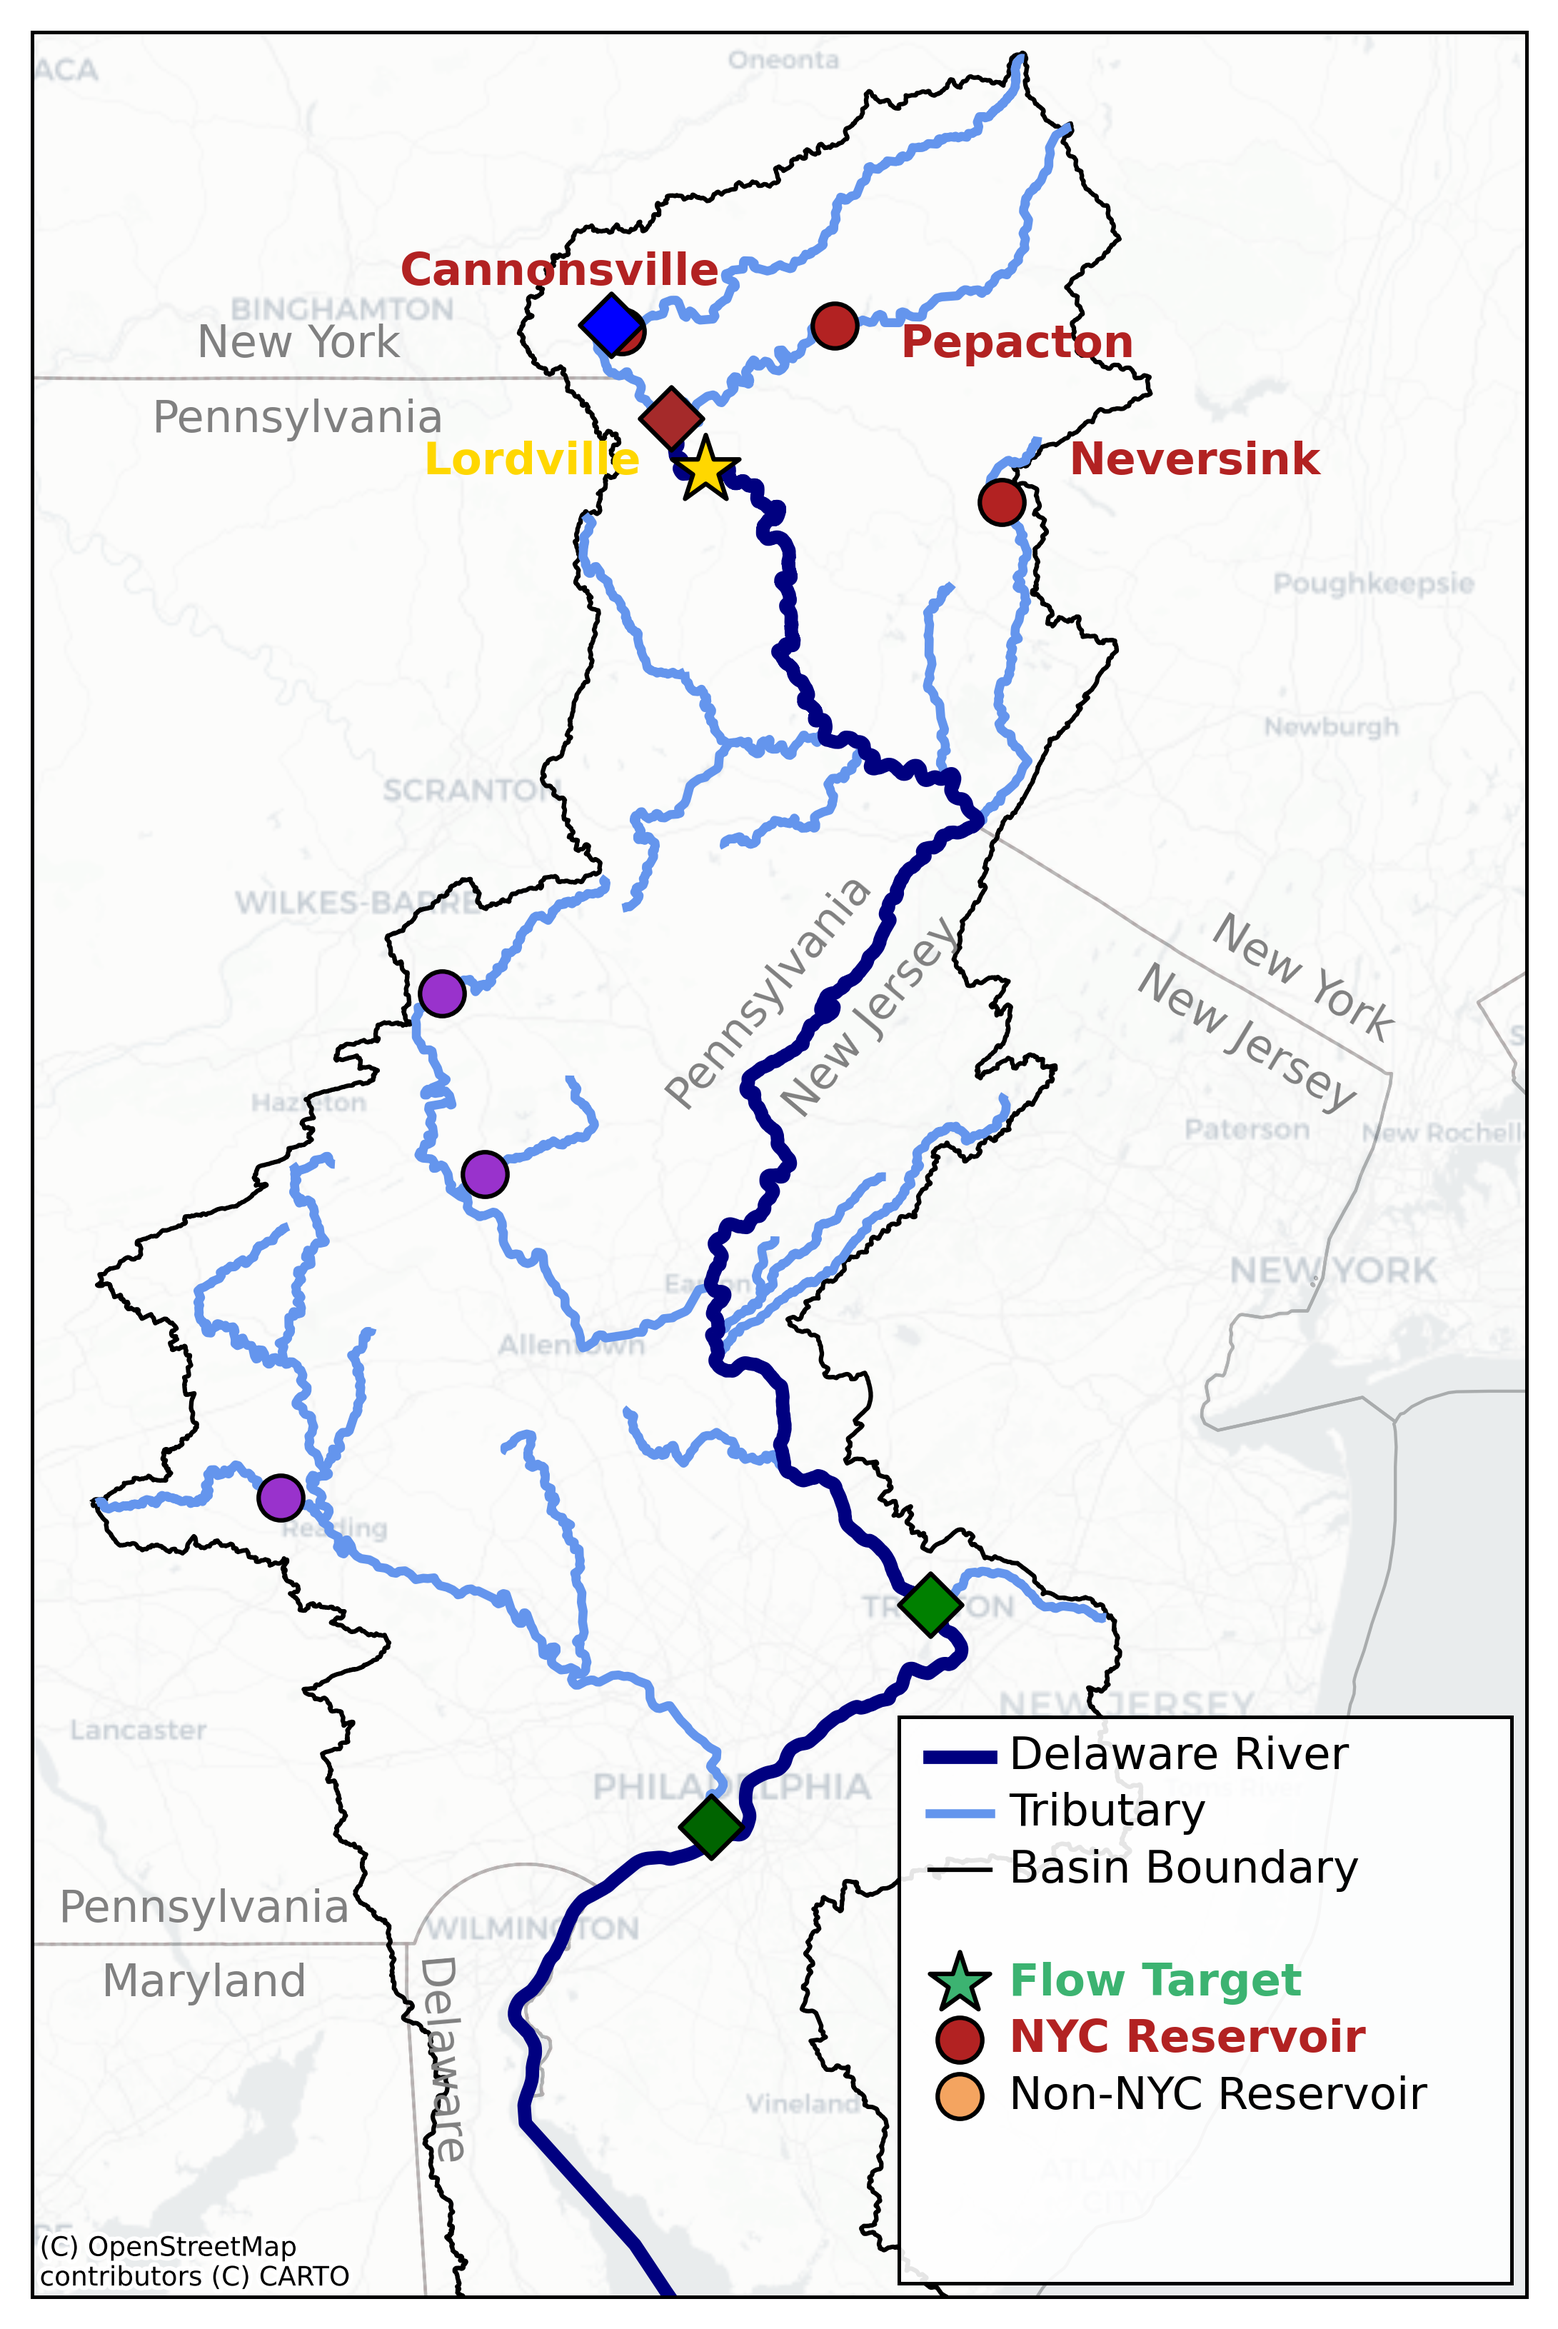
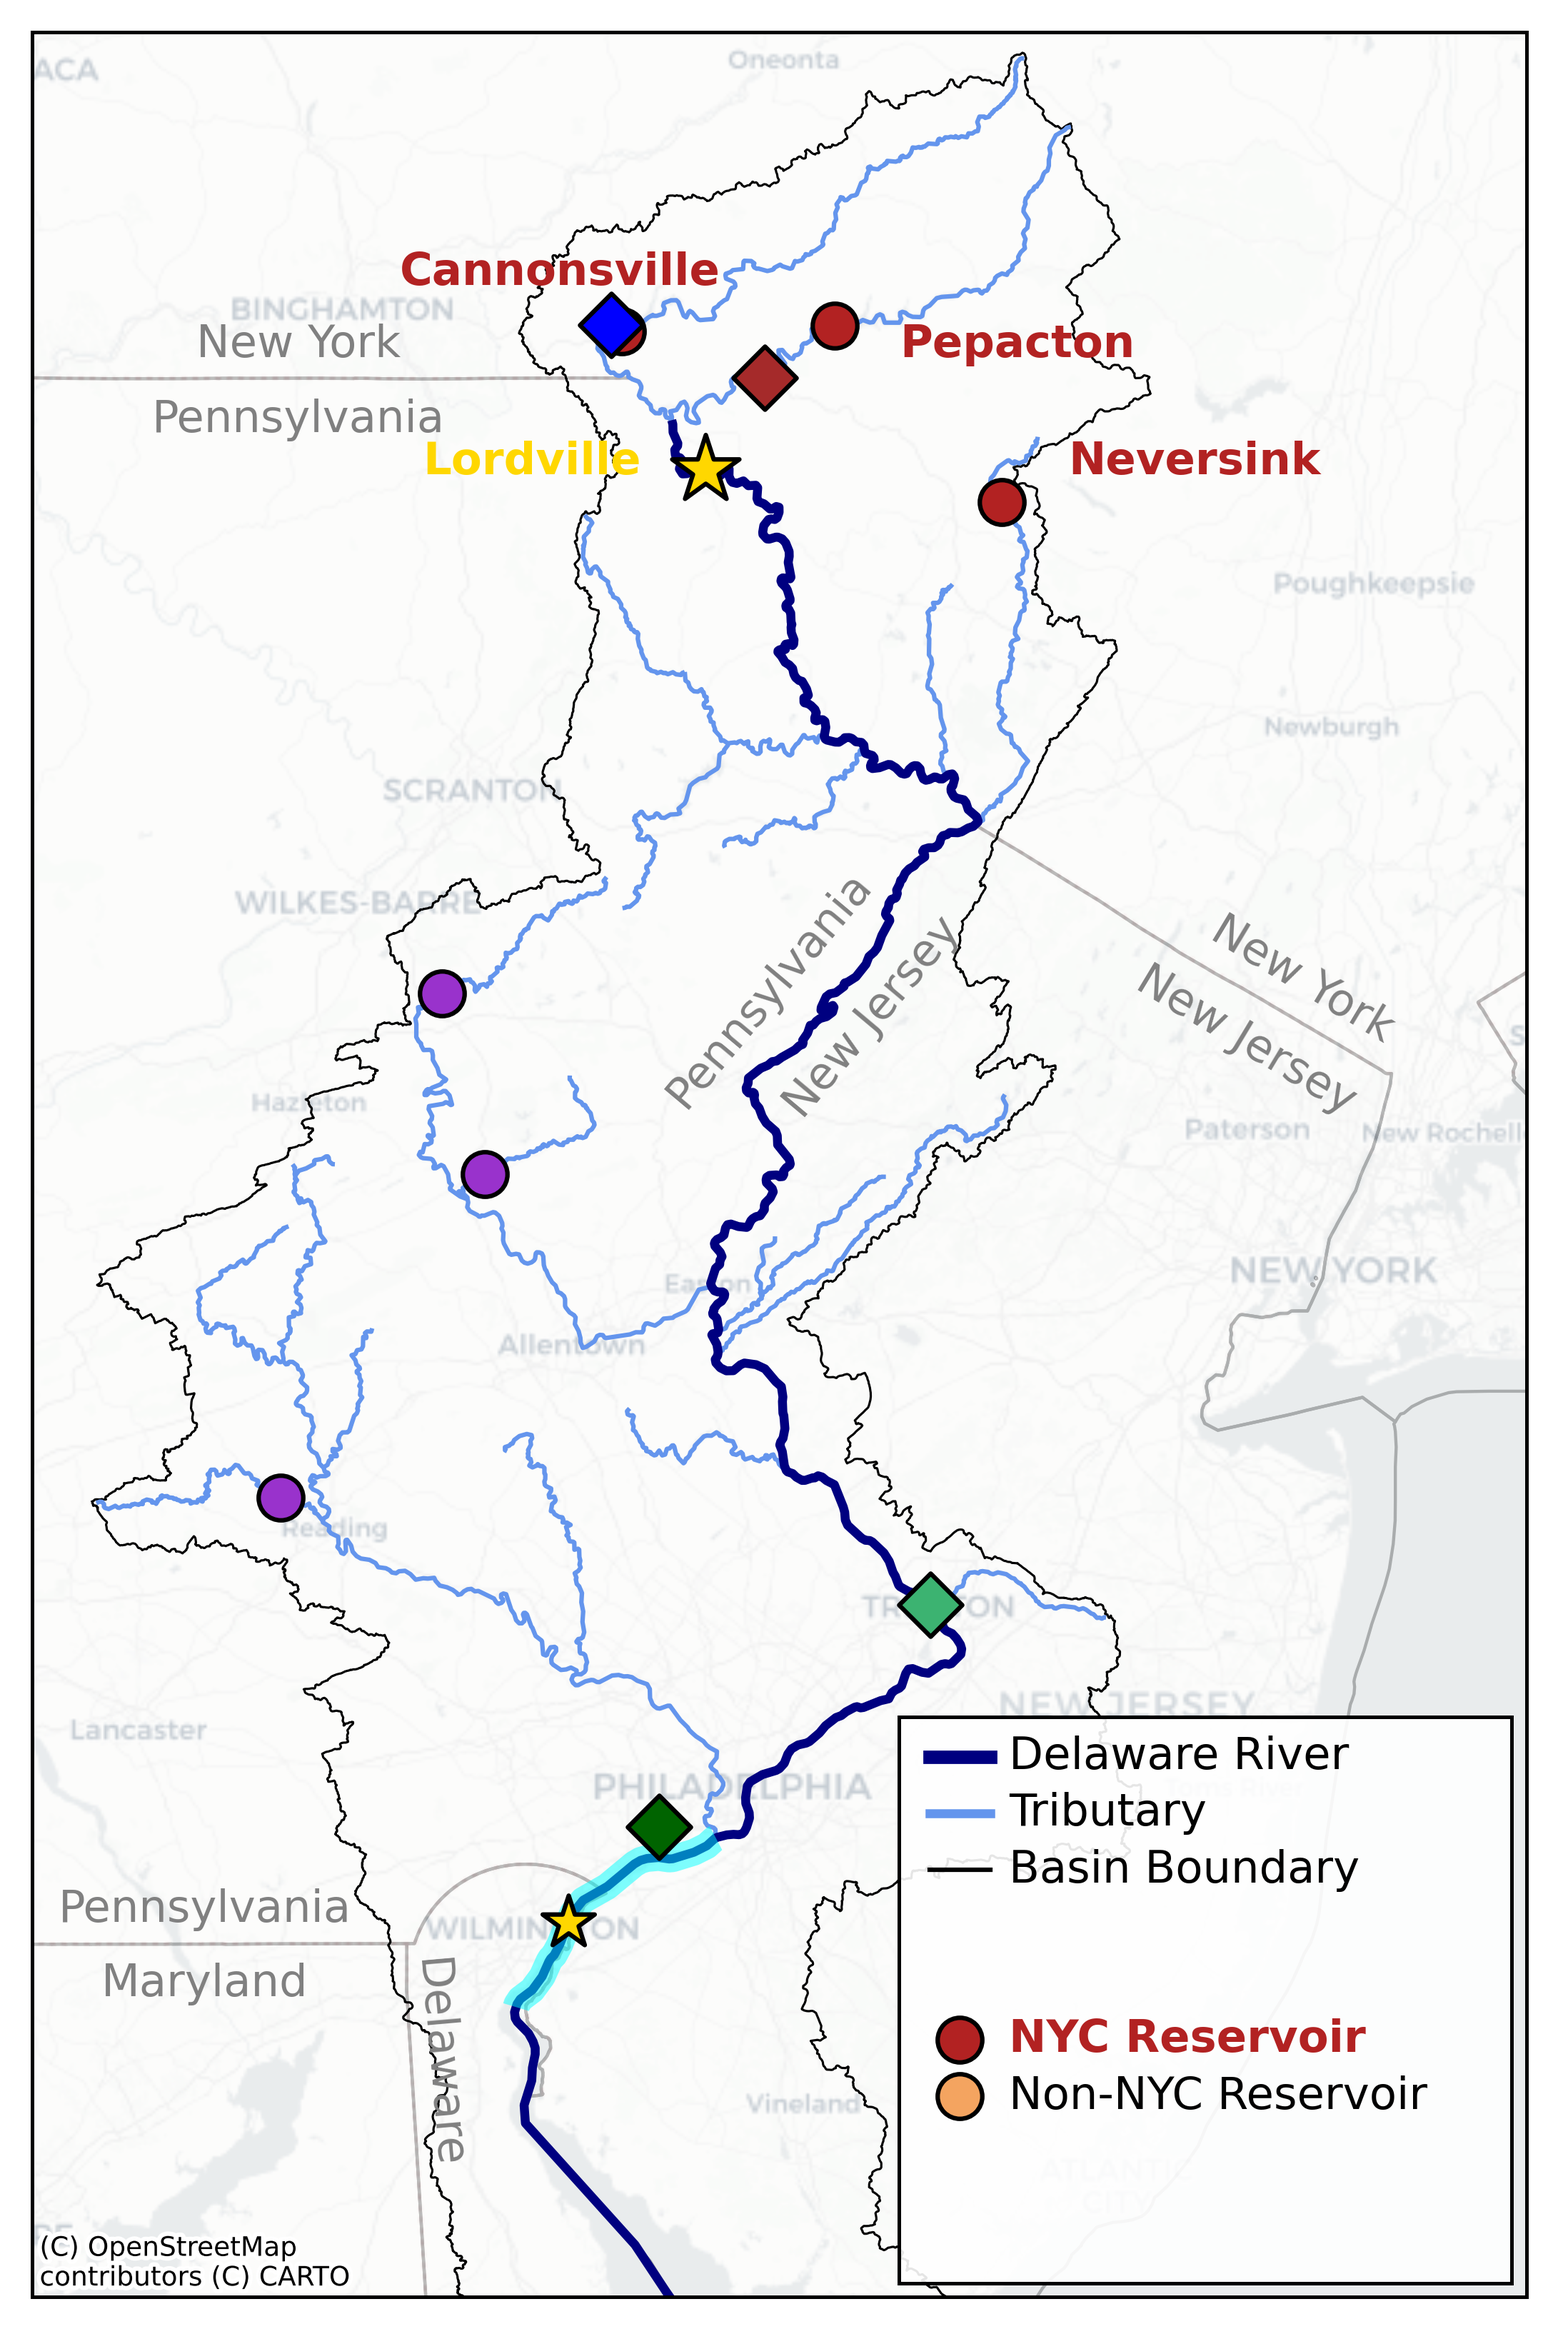
update

diff --git a/make_Lin_etal_preprint.py b/make_Lin_etal_preprint.py
@@ -6,6 +6,8 @@ Contains all plotting functions used for Pywr-DRB model assessments, including:
 import geopandas as gpd
 from shapely import ops
 from shapely.geometry import Point, LineString, MultiLineString
+from shapely.geometry import box
+
 import numpy as np
 import pandas as pd
 import matplotlib.pyplot as plt
@@ -31,6 +33,8 @@ def make_DRB_map(fig_dir=fig_dir,
                  use_basemap = True,
                  plot_temp_lstm_inputs=True,
                  plot_salinity_lstm_inputs=True,
+                 plot_salinity_normal_range=True,
+                 plot_salinity_target=True,
                  plot_tributaries = True,
                  plot_flow_requirements = True,
                  plot_lordville = True,
@@ -42,6 +46,7 @@ def make_DRB_map(fig_dir=fig_dir,
     ### set crs consistent with contextily basemap
     crs = 'EPSG:3857'
     crs_nodedata = 4386
+    crs_longlat = 'EPSG:4326'
 
 
     # # Reservoir data
@@ -76,7 +81,7 @@ def make_DRB_map(fig_dir=fig_dir,
     
 
     ### plot drb boundary
-    drb_boundary.plot(ax=ax, color='none', edgecolor='k', lw=1, zorder=0.9)
+    drb_boundary.plot(ax=ax, color='none', edgecolor='k', lw=0.5, zorder=0.9)
 
     ### plot river network
     mainstem.plot(ax=ax, color='navy', lw=2, zorder=1.1)
@@ -107,7 +112,7 @@ def make_DRB_map(fig_dir=fig_dir,
             tribs.append(trib)
 
         for trib in tribs:
-            trib.plot(ax=ax, color='cornflowerblue', lw=2, zorder=1)
+            trib.plot(ax=ax, color='cornflowerblue', lw=1, zorder=1)
 
     # reservoirs
     list_nyc_reservoirs = ('reservoir_cannonsville', 'reservoir_pepacton', 'reservoir_neversink')
@@ -180,7 +185,8 @@ def make_DRB_map(fig_dir=fig_dir,
                                                             crs=crs_nodedata)).to_crs(crs)
 
         # second point has coordinates:
-        coords = (-75.280370, 41.941378)
+        coords = (-75.10, 42.0)
+        
         Qin_b = gpd.GeoDataFrame({'name': ['Qin_b'], 'long': [coords[0]], 'lat': [coords[1]]},
                                   geometry=gpd.points_from_xy([coords[0]], [coords[1]],
                                                               crs=crs_nodedata)).to_crs(crs)
@@ -193,18 +199,55 @@ def make_DRB_map(fig_dir=fig_dir,
         # 1. trenton gage
         # 2. schuylkill outlet
         Qin_c = major_nodes.loc[major_nodes['name'] == 'link_delTrenton']
+        
         Qin_c = gpd.GeoDataFrame(Qin_c,
                                 geometry=gpd.points_from_xy(Qin_c.long, Qin_c.lat,
                                                             crs=crs_nodedata)).to_crs(crs)
 
         Qin_d = major_nodes.loc[major_nodes['name'] == 'link_outletSchuylkill']
+        
+        # for the schuylkill outlet, move the coordinate to the west for better visibility
+        Qin_d['lat'] = float(Qin_d['lat'])
+        Qin_d['long'] = float(Qin_d['long']) - 0.1
+        
         Qin_d = gpd.GeoDataFrame(Qin_d,
                                 geometry=gpd.points_from_xy(Qin_d.long, Qin_d.lat,
                                                             crs=crs_nodedata)).to_crs(crs)
-        Qin_c.plot(ax=ax, color='green', edgecolor='k', markersize=100, zorder=2.1, marker='D')
+        Qin_c.plot(ax=ax, color='mediumseagreen', edgecolor='k', markersize=100, zorder=2.1, marker='D')
         Qin_d.plot(ax=ax, color='darkgreen', edgecolor='k', markersize=100, zorder=2.1, marker='D')
 
-
+    if plot_salinity_normal_range:
+        # northern and southern bounds of normal salinity range
+        range_lat_bounds = [39.628079, 39.878107]
+        
+        # convert these latitudes to the map crs
+        point1 = gpd.GeoDataFrame({'name': ['point1'], 'long': [-75.477484], 'lat': [range_lat_bounds[0]]},
+                                  geometry=gpd.points_from_xy([-75.477484], [range_lat_bounds[0]],
+                                                              crs=crs_nodedata)).to_crs(crs)
+        point2 = gpd.GeoDataFrame({'name': ['point2'], 'long': [-75.477484], 'lat': [range_lat_bounds[1]]},
+                                  geometry=gpd.points_from_xy([-75.477484], [range_lat_bounds[1]],
+                                                              crs=crs_nodedata)).to_crs(crs)
+        
+        
+        # get the drb mainstem line geometry which is within these lat bounds
+        # must trim the line to be within the lat bounds
+        bounds = mainstem.total_bounds  # [minx, miny, maxx, maxy]
+        clip_box = box(bounds[0], point1.geometry.y.iloc[0], bounds[2], point2.geometry.y.iloc[0])
+        
+        # Clip the geometry to the latitude range
+        mainstem_range_segment = gpd.clip(mainstem, clip_box)
+    
+        mainstem_range_segment.plot(ax=ax, color='cyan', lw=6, alpha=0.5, zorder=1.2) 
+        
+    if plot_salinity_target:
+        # make a single point for the target location 
+        coords = (-75.477484, 39.752665)
+        target_point = gpd.GeoDataFrame({'name': ['target'], 'long': [coords[0]], 'lat': [coords[1]]},
+                                  geometry=gpd.points_from_xy([coords[0]], [coords[1]],
+                                                              crs=crs_nodedata)).to_crs(crs)
+        target_point.plot(ax=ax, color='gold', edgecolor='k', 
+                          markersize=150, zorder=2.3, marker='*')
+        
     ### add state boundaries
     if use_basemap:
         states.plot(ax=ax, color='none', edgecolor='0.5', lw=0.7, zorder=0)
@@ -270,17 +313,23 @@ def make_DRB_map(fig_dir=fig_dir,
     ### mainstem
     axin.plot([0.05, 0.15], [0.93, 0.93], color='navy', lw=3)
     axin.annotate('Delaware River', xy=(0.18, 0.93), ha='left', va='center', color='k', fontsize=fontsize)
-    ### tributaries
-    axin.plot([0.05, 0.15], [0.83, 0.83], color='cornflowerblue', lw=2)
-    axin.annotate('Tributary', xy=(0.18, 0.83), ha='left', va='center', color='k', fontsize=fontsize)
-    ### DRB boundary
+
+    # tributaries
+    if plot_tributaries:
+        axin.plot([0.05, 0.15], [0.83, 0.83], color='cornflowerblue', lw=2)
+        axin.annotate('Tributary', xy=(0.18, 0.83), ha='left', va='center', color='k', fontsize=fontsize)
+
+    # DRB boundary
     axin.plot([0.05, 0.15], [0.73, 0.73], color='k', lw=1)
     axin.annotate('Basin Boundary', xy=(0.18, 0.73), ha='left', va='center', color='k', fontsize=fontsize)
 
     ### Minimum flow targets
-    axin.scatter([0.1], [0.53], color='mediumseagreen', edgecolor='k', s=200, marker='*')
-    axin.annotate('Flow Target', xy=(0.18, 0.53), ha='left', va='center', color='mediumseagreen', fontweight='bold',
-                  fontsize=fontsize)
+
+    if plot_flow_requirements:
+        axin.scatter([0.1], [0.53], color='mediumseagreen', edgecolor='k', s=200, marker='*')
+        axin.annotate('Flow Target', xy=(0.18, 0.53), ha='left', va='center', color='mediumseagreen', fontweight='bold',
+                    fontsize=fontsize)
+
     ### NYC Reservoirs
     axin.scatter([0.1], [0.43], color='firebrick', edgecolor='k', s=100)
     axin.annotate('NYC Reservoir', xy=(0.18, 0.43), ha='left', va='center', color='firebrick', fontweight='bold',
@@ -319,4 +368,6 @@ def make_DRB_map(fig_dir=fig_dir,
 
 if __name__ == "__main__":
     make_DRB_map(plot_flow_requirements=False, 
-                 plot_salinity_lstm_inputs=True)
+                 plot_salinity_lstm_inputs=True,
+                 plot_temp_lstm_inputs=True,
+                 scale_reservoirs_by_capacity=False,)
